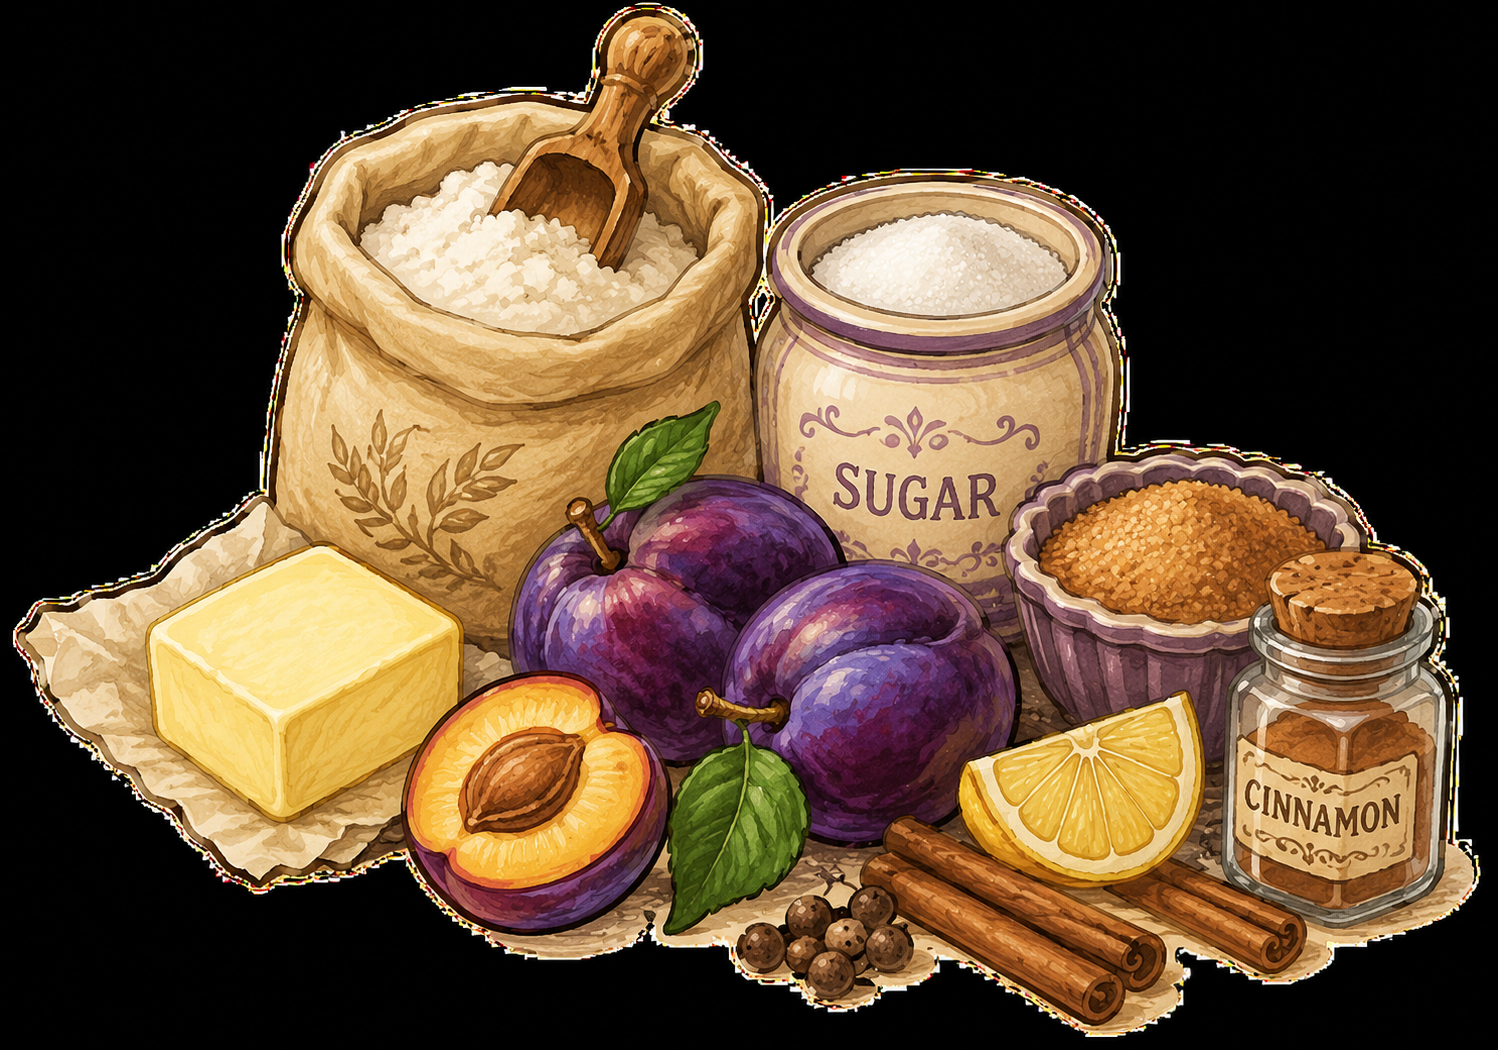
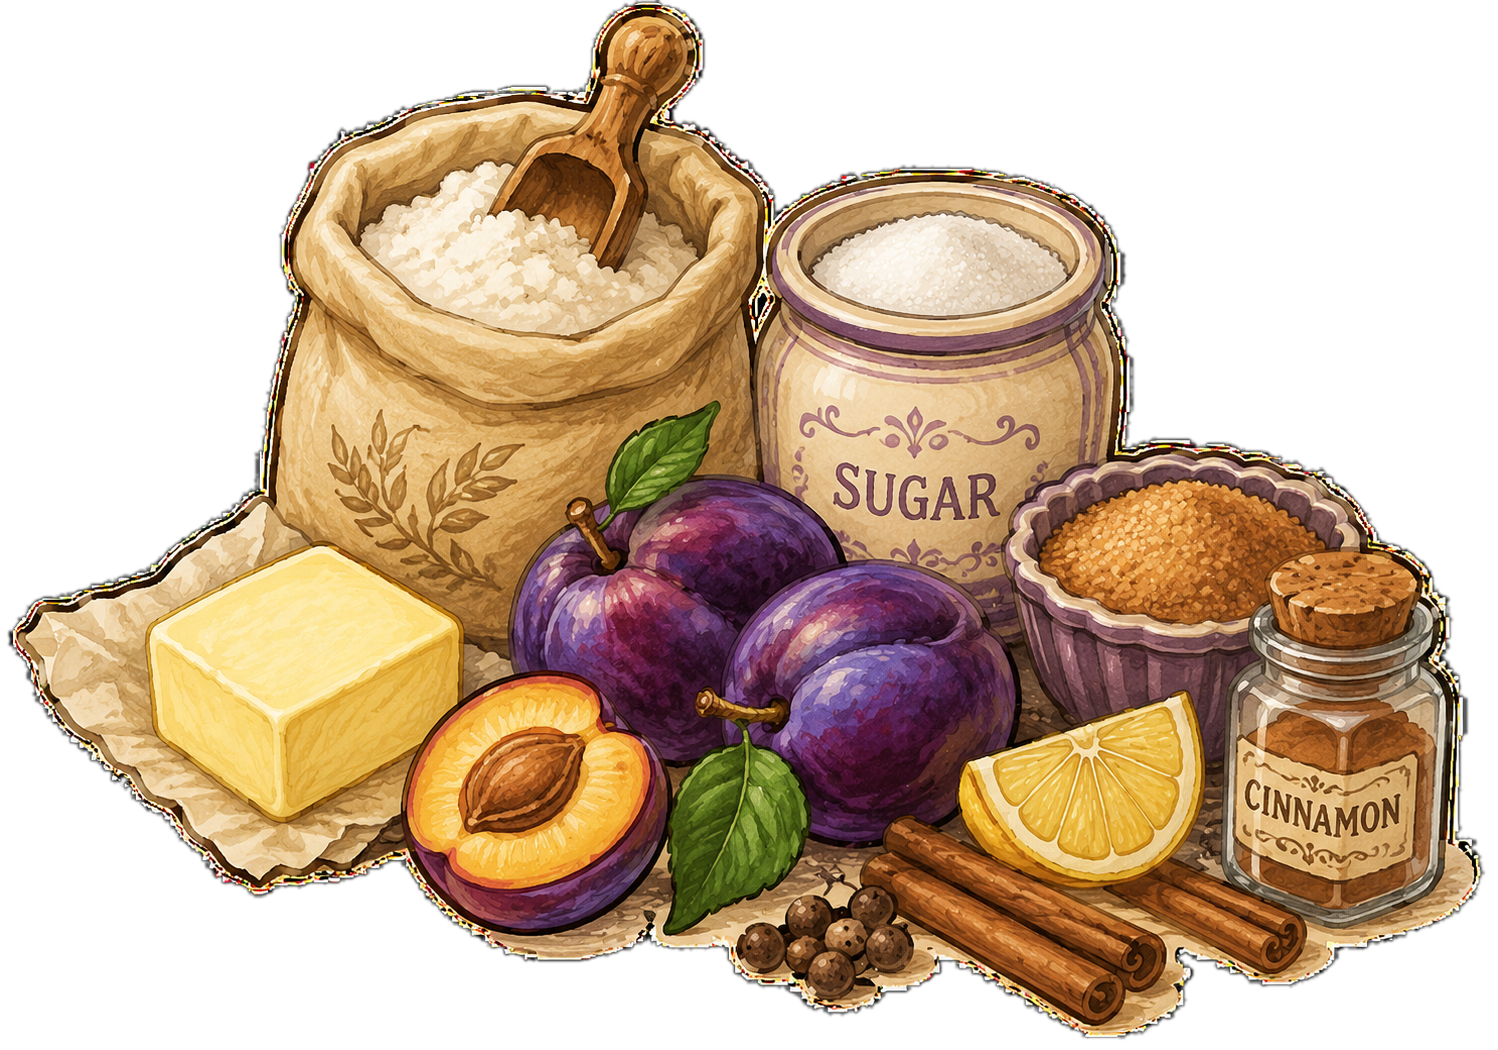
Fix: Level 4 playtest pass - shark visuals, dried meat UX, wood goal
Shark now spans 2 tiles, faces its direction of travel, stays hidden until
its first move, hops tile-by-tile, and lingers on-screen through the tame
popup instead of vanishing instantly. Dried meat no longer clutters the
enchantments menu on mobile - carrying it now swaps the player sprite and
adds a pulsing glow instead. Removed opaque backgrounds from the shark,
magic necklace, and plum pie ingredients art. Necklace icon enlarged on
its enchantment card, the shark-speed-up popup is skipped once already
tamed, and Level 4's wood goal is raised to 14.

diff --git a/index.html b/index.html
@@ -696,7 +696,7 @@
   }
   /* ---------- SHARK (level 4) ---------- */
   .piece.shark{
-    width:130%; height:130%; display:flex; align-items:center; justify-content:center;
+    width:200%; height:130%; display:flex; align-items:center; justify-content:center;
     z-index:6; pointer-events:none; transition:none;
   }
   .piece.shark img{
@@ -723,6 +723,12 @@
   @keyframes stungPulse{
     0%,100%{filter:drop-shadow(0 0 5px rgba(255,90,180,.95)) drop-shadow(0 0 14px rgba(255,140,205,.8));}
     50%    {filter:drop-shadow(0 0 12px rgba(255,60,170,1)) drop-shadow(0 0 26px rgba(255,170,220,.95)) brightness(1.2);}
+  }
+  /* carrying dried meat: slow yellow glow */
+  .piece.mer.meatGlow{animation:meatPulse 1.8s ease-in-out infinite;}
+  @keyframes meatPulse{
+    0%,100%{filter:drop-shadow(0 0 5px rgba(255,210,60,.85)) drop-shadow(0 0 12px rgba(255,225,120,.6));}
+    50%    {filter:drop-shadow(0 0 10px rgba(255,200,40,1)) drop-shadow(0 0 22px rgba(255,220,110,.85)) brightness(1.1);}
   }
 
   /* ---------- CORAL COVE (level 2) PALETTE ---------- */
@@ -847,6 +853,7 @@ body.pearlCove .boardWrap{background-position:center -36px !important; backgroun
   /* apple pie enchantment + held ingredient cards */
   .slot.pieSlot.owned{background:linear-gradient(180deg,#FBEAD2,#F3D6A9); border:2px solid #D9A44E;}
   .pieImg{width:82%; height:auto; object-fit:contain; display:block; filter:drop-shadow(0 1px 2px rgba(120,70,20,.35));}
+  .necklaceCardIcon{height:2em; width:auto; object-fit:contain; display:block; filter:drop-shadow(0 1px 2px rgba(120,90,20,.35));}
   .slot.itemSlot{
     background:linear-gradient(180deg,#FFF4E2,#F6E3C4);
     border:2px dashed #D9A44E;
@@ -1363,7 +1370,8 @@ body.pearlCove .boardWrap{background-position:center -36px !important; backgroun
     if(curLevel===4) return PIRATE_DEFS.concat([PIRATE_DEF_PLUM, PIRATE_DEF_CAPTAIN]);
     return PIRATE_DEFS;
   }
-  const WOOD_GOAL=10, PIRATE_STEPS=3;
+  const PIRATE_STEPS=3;
+  function woodGoal(){ return curLevel===4 ? 14 : 10; }
   const STEP_MS=250;
 
   // ---------- STATE ----------
@@ -1411,7 +1419,7 @@ body.pearlCove .boardWrap{background-position:center -36px !important; backgroun
         {id:0, row:'W1', col:null, dir:-1, start:COLS, delay:0},
         {id:1, row:'W3', col:null, dir:+1, start:2,    delay:1},
       ] : [],
-      shark:isL4 ? {row:'W1', col:COLS, dir:-1, tierIdx:0, speed:2, active:true, tamed:false} : null,
+      shark:isL4 ? {row:'W1', col:COLS, dir:-1, tierIdx:0, speed:2, active:true, tamed:false, onscreen:false} : null,
       sharkFast:false,
       captainRevealed:false,
     };
@@ -1542,6 +1550,7 @@ body.pearlCove .boardWrap{background-position:center -36px !important; backgroun
     const m=document.createElement('div'); m.className='piece mer'; m.id='merPiece';
     m.innerHTML='<span class="merFloat"><img class="merImg" src="'+playerImg()+'" alt="mermaid"></span>'; mc.appendChild(m);
     if(S.turnsToSkip>0) m.classList.add('stungGlow');
+    if(S.inventory.driedmeat) m.classList.add('meatGlow');
     (S.jellies||[]).forEach(j=>{
       if(j.col===null) return;
       const jc=$('cell-'+j.row+j.col); if(!jc) return;
@@ -1549,11 +1558,13 @@ body.pearlCove .boardWrap{background-position:center -36px !important; backgroun
       el.innerHTML='<img src="'+IMG_JELLY+'" alt="jellyfish">';
       jc.appendChild(el);
     });
-    if(S.shark && S.shark.active){
+    if(S.shark && S.shark.active && S.shark.onscreen){
       const sc=$('cell-'+S.shark.row+S.shark.col);
       if(sc){
         const el=document.createElement('div'); el.className='piece shark'; el.id='sharkPiece';
-        el.innerHTML='<img src="'+IMG_SHARK_NECKLACE+'" alt="shark">';
+        // Body trails behind the leading tile (sh.col), toward the direction it came from.
+        el.style.left=(S.shark.dir===1)?'-100%':'0';
+        el.innerHTML='<img src="'+IMG_SHARK_NECKLACE+'" alt="shark" style="transform:scaleX('+(S.shark.dir===-1?-1:1)+')">';
         sc.appendChild(el);
       }
     }
@@ -1592,10 +1603,10 @@ body.pearlCove .boardWrap{background-position:center -36px !important; backgroun
     // Ship repair dock (left, by the ship): a log icon per delivered wood
     const rd=$('repairDock');
     let rdHtml='<h4>Repairs</h4>';
-    for(let i=0;i<WOOD_GOAL;i++){
+    for(let i=0;i<woodGoal();i++){
       rdHtml+='<div class="logIcon '+(i<S.wood?'full':'empty')+'"></div>';
     }
-    rdHtml+='<div class="count">'+S.wood+'/'+WOOD_GOAL+'</div>';
+    rdHtml+='<div class="count">'+S.wood+'/'+woodGoal()+'</div>';
     rd.innerHTML=rdHtml;
     const pl=$('pirateList'); pl.innerHTML='';
     S.pirates.forEach(p=>{
@@ -1624,6 +1635,10 @@ body.pearlCove .boardWrap{background-position:center -36px !important; backgroun
         const pieImg=k==='plumpie'?IMG_PLUMPIE:IMG_APPLEPIE;
         s.innerHTML=owned
           ? '<img class="pieImg" src="'+pieImg+'"><span>'+label+'</span>'
+          : '<span class="qBig">?</span>';
+      } else if(k==='magicnecklace'){
+        s.innerHTML=owned
+          ? '<img class="necklaceCardIcon" src="'+IMG_NECKLACE_MAGIC+'" alt="magic necklace"><span>'+label+'</span>'
           : '<span class="qBig">?</span>';
       } else {
         s.innerHTML=owned ? e+'<span>'+label+'</span>' : '<span class="qBig">?</span>';
@@ -1658,12 +1673,6 @@ body.pearlCove .boardWrap{background-position:center -36px !important; backgroun
         g.className='slot itemSlot'; g.id='slot-plumingredients';
         g.innerHTML='<img class="ingImg" src="'+IMG_PLUMPIE_INGREDIENTS+'"><span>Ingredients</span>';
         inv.appendChild(g);
-      }
-      if(S.inventory.driedmeat){
-        const dm=document.createElement('div');
-        dm.className='slot itemSlot'; dm.id='slot-driedmeat';
-        dm.innerHTML='<img class="ingImg" src="'+IMG_DRIEDMEAT+'"><span>Dried Meat</span>';
-        inv.appendChild(dm);
       }
     }
     if(S.pearl!=='none'){
@@ -1719,9 +1728,13 @@ body.pearlCove .boardWrap{background-position:center -36px !important; backgroun
   };
   const JELLY_BASE_STEPS=2, JELLY_FAST_STEPS=3;
   let curLevel=1, playerSprite=null, savedGame=null;
-  function playerImg(){ return playerSprite==='sister' ? IMG_SISTER : IMG_PLAYER; }
+  function playerImg(){
+    if(S && S.inventory && S.inventory.driedmeat) return IMG_PLAYER_DRIEDMEAT;
+    return playerSprite==='sister' ? IMG_SISTER : IMG_PLAYER;
+  }
 
   const IMG_PLAYER='assets/img/player.png';
+  const IMG_PLAYER_DRIEDMEAT='assets/img/player-driedmeat.png';
   const IMG_SISTER='assets/img/sister.png';
 
   function rollDie(){return 1+Math.floor(Math.random()*6);}
@@ -2142,16 +2155,19 @@ body.pearlCove .boardWrap{background-position:center -36px !important; backgroun
 
   function tameShark(){
     S.inventory.driedmeat=false;
-    S.shark.active=false;
     S.shark.tamed=true;
-    S.inventory.magicnecklace=true;
     render();
-    log('🥩 You feed the shark the dried meat — it goes calm and swims away, leaving its magic necklace behind!');
+    log('🥩 You feed the shark the dried meat — it goes calm!');
     showNotice(
       '🦈 Shark tamed!',
       '<img class="popImg" src="'+IMG_SHARK_NO_NECKLACE+'">',
-      'The shark takes the dried meat and swims off, dropping its <b>magic necklace</b> behind! It\'s now in your enchantments — the captain won\'t be able to resist it.',
-      ()=>afterMermaidMove()
+      'The shark takes the dried meat and goes calm! It drops its <b>magic necklace</b> and swims off — the captain won\'t be able to resist it.',
+      ()=>{
+        S.shark.active=false;
+        S.inventory.magicnecklace=true;
+        render();
+        afterMermaidMove();
+      }
     );
   }
 
@@ -2382,8 +2398,8 @@ body.pearlCove .boardWrap{background-position:center -36px !important; backgroun
                     );
                   }
                 );
-              // Level 4 twist 1: second capture speeds up the shark
-              } else if(curLevel===4 && S.shark && !S.sharkFast && capturedCount>=2){
+              // Level 4 twist 1: second capture speeds up the shark (skip if already tamed)
+              } else if(curLevel===4 && S.shark && S.shark.active && !S.sharkFast && capturedCount>=2){
                 S.sharkFast=true;
                 S.shark.speed=3;
                 showNotice(
@@ -2485,14 +2501,14 @@ body.pearlCove .boardWrap{background-position:center -36px !important; backgroun
       if(pos===XSQUARE && p.carrying){
         p.carrying=false; S.wood++;
         SFX.woodDeliver();
-        events.push('delivered wood to the ship ('+S.wood+'/'+WOOD_GOAL+') 🪵');
+        events.push('delivered wood to the ship ('+S.wood+'/'+woodGoal()+') 🪵');
       }
       render();
       flashCell(pos);
       hopPiece('#pir-'+p.id);
       const charEl=document.querySelector('#pir-'+p.id+' .pirChar');
       if(charEl) charEl.classList.add('walking');
-      if(S.wood>=WOOD_GOAL){
+      if(S.wood>=woodGoal()){
         log('🏴☠ '+p.name+' '+events.join(', then ')+'.');
         endGame(false);
         return;
@@ -2566,7 +2582,8 @@ body.pearlCove .boardWrap{background-position:center -36px !important; backgroun
   ];
   function sharkTurn(){
     if(S.over) return;
-    if(curLevel!==4 || !S.shark || !S.shark.active){ jellyTurn(); return; }
+    if(curLevel!==4 || !S.shark || !S.shark.active || S.shark.tamed){ jellyTurn(); return; }
+    S.shark.onscreen=true;   // hidden during the very first turn, visible from here on
     S.phase='sharkTurn';
     setDice('A shark is patrolling…', true);
     let steps=0;
@@ -2584,6 +2601,7 @@ body.pearlCove .boardWrap{background-position:center -36px !important; backgroun
       }
       render();
       flashCell(sh.row+sh.col);
+      hopPiece('#sharkPiece');
       if(checkSharkHit()) return;   // chomp pauses everything until the fail screen
       steps++;
       if(steps<sh.speed) setTimeout(step,300);
@@ -2594,7 +2612,7 @@ body.pearlCove .boardWrap{background-position:center -36px !important; backgroun
 
   function checkSharkHit(){
     const sh=S.shark;
-    if(!sh || !sh.active || S.over) return false;
+    if(!sh || !sh.active || sh.tamed || S.over) return false;
     if(S.mer.row===sh.row && S.mer.col===sh.col){ sharkChomped(); return true; }
     return false;
   }
@@ -2701,7 +2719,7 @@ body.pearlCove .boardWrap{background-position:center -36px !important; backgroun
     if(!win){
       $('endTitle').textContent='The ship sails away…';
       $('endEmoji').innerHTML='<span class="popArt"><span class="popShipArt">'+SHIP_ART+'</span><span class="popHeart">😢</span></span>';
-      $('endText').innerHTML='The pirates gathered <b>'+WOOD_GOAL+'</b> pieces of wood and fixed the ship before you could stop them. Try a bolder strategy next time!';
+      $('endText').innerHTML='The pirates gathered <b>'+woodGoal()+'</b> pieces of wood and fixed the ship before you could stop them. Try a bolder strategy next time!';
       $('restart').classList.remove('hidden'); $('restart').textContent='Play again';
       $('toMenu').classList.remove('hidden');
       $('endOverlay').classList.remove('hidden');
